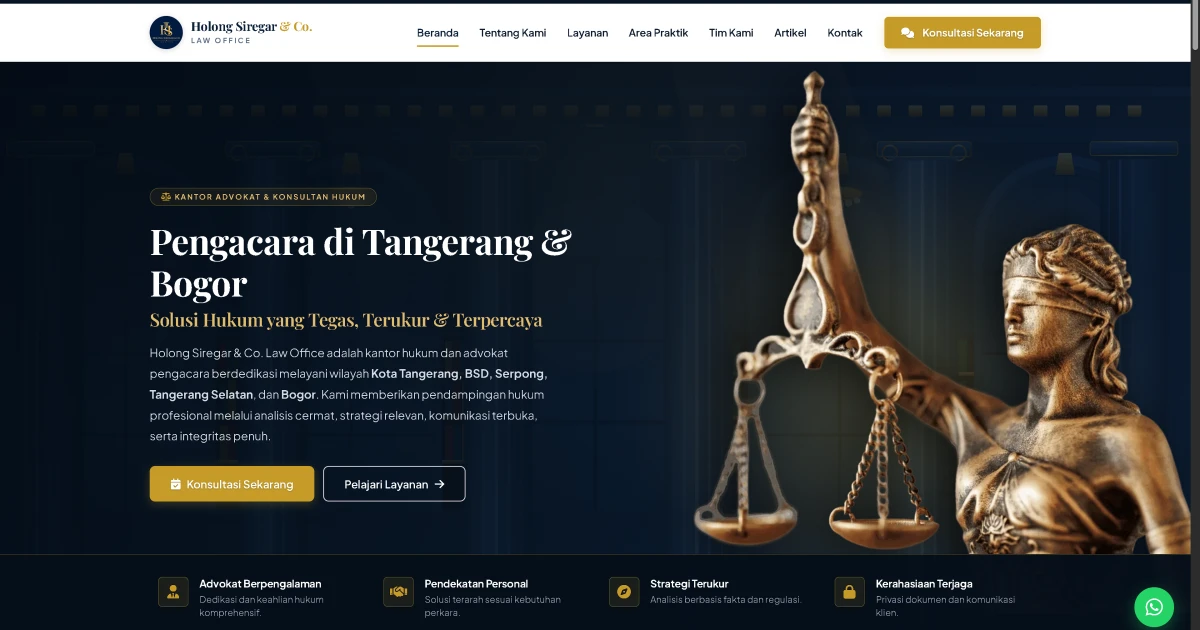
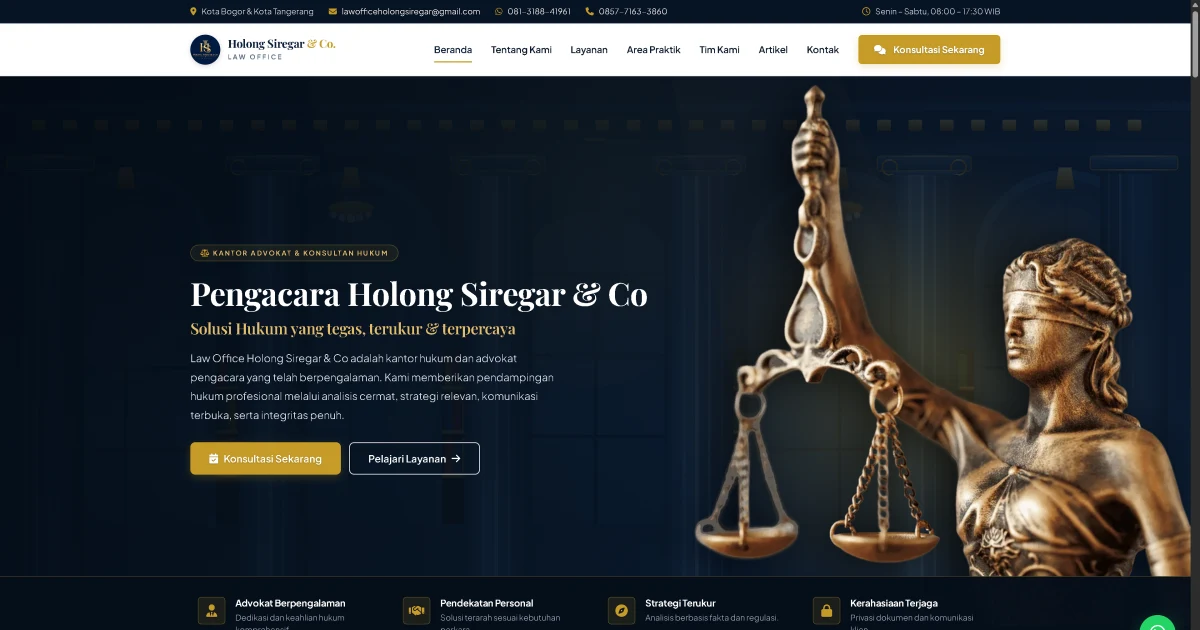
feat(seo): update open graph image with refreshed hero preview and cache busting

diff --git a/resources/views/layouts/app.blade.php b/resources/views/layouts/app.blade.php
@@ -24,8 +24,8 @@
     <meta property="og:title" content="@yield('og_title', trim($__env->yieldContent('title', 'Pengacara di Tangerang & Bogor | Holong Siregar & Co.')))">
     <meta property="og:description" content="@yield('meta_description', 'Kantor advokat & pengacara di Tangerang & Bogor. Melayani perkara perdata, pidana, perceraian, sengketa tanah, dan hukum bisnis profesional.')">
     <meta property="og:url" content="@yield('canonical', url()->current())">
-    <meta property="og:image" content="@yield('og_image', asset('assets/images/og-image.jpg'))">
-    <meta property="og:image:secure_url" content="@yield('og_image_secure', asset('assets/images/og-image.jpg'))">
+    <meta property="og:image" content="@yield('og_image', \App\Support\LawFirm::versionedAsset('assets/images/og-image.jpg'))">
+    <meta property="og:image:secure_url" content="@yield('og_image_secure', \App\Support\LawFirm::versionedAsset('assets/images/og-image.jpg'))">
     <meta property="og:image:width" content="1200">
     <meta property="og:image:height" content="630">
     <meta property="og:image:type" content="@yield('og_image_type', 'image/jpeg')">
@@ -36,7 +36,7 @@
     <meta name="twitter:site" content="@holongsiregar">
     <meta name="twitter:title" content="@yield('og_title', trim($__env->yieldContent('title', 'Pengacara di Tangerang & Bogor | Holong Siregar & Co.')))">
     <meta name="twitter:description" content="@yield('meta_description', 'Kantor advokat & pengacara di Tangerang & Bogor.')">
-    <meta name="twitter:image" content="@yield('og_image', asset('assets/images/og-image.jpg'))">
+    <meta name="twitter:image" content="@yield('og_image', \App\Support\LawFirm::versionedAsset('assets/images/og-image.jpg'))">
     <meta name="twitter:image:alt" content="@yield('og_image_alt', 'Holong Siregar & Co. Law Office - Pengacara di Tangerang & Bogor')">
 
     @stack('meta_extra')
